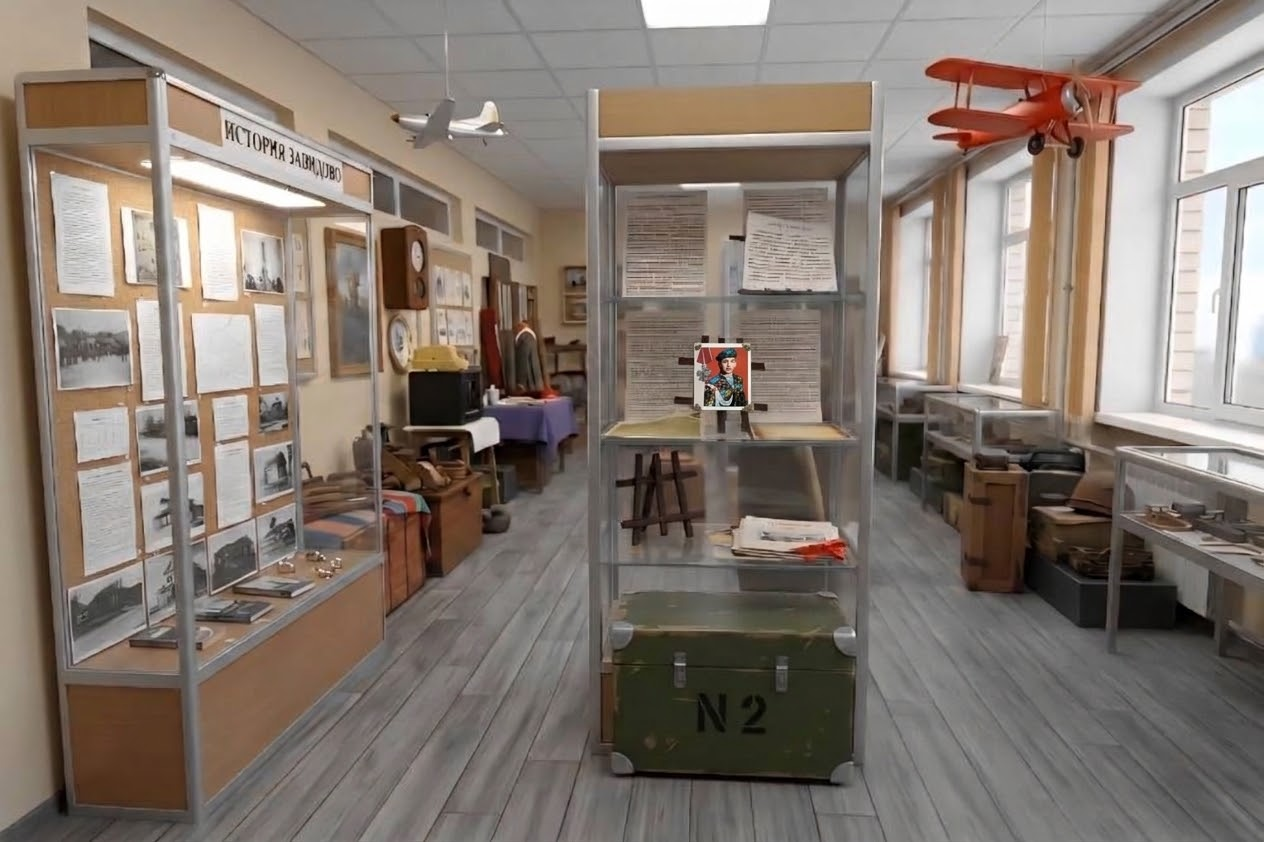
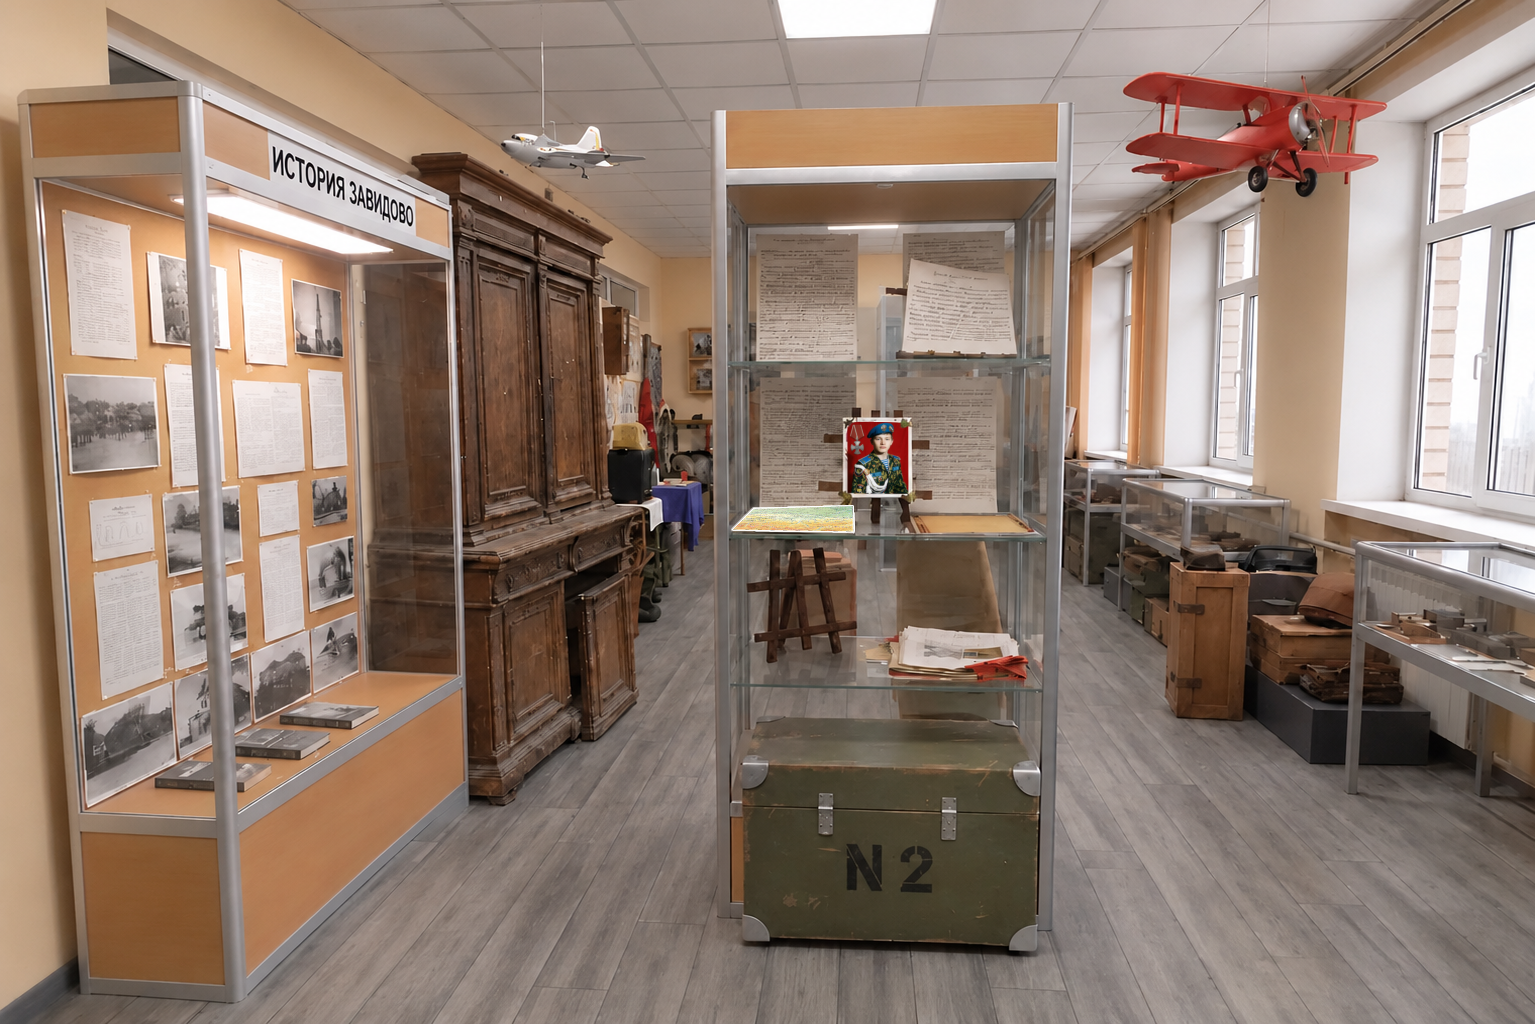
Hide cabinet marker label on hover

diff --git a/script.js b/script.js
@@ -592,16 +592,16 @@ const LONGITUDINAL_OBJECTS = [
     title: "Стенд о Чечне, Афганистане и Великой Отечественной войне",
     number: "1",
     color: "red",
-    left: "58%",
-    top: "14%",
+    left: "57.8%",
+    top: "14.6%",
   },
   {
     id: "Stend_about_Zavidovo_history(2)",
     title: "Стенд «История Завидово»",
     number: "2",
     color: "red",
-    left: "23%",
-    top: "80%",
+    left: "24%",
+    top: "79.4%",
     labelPosition: "above",
   },
   {
@@ -609,8 +609,8 @@ const LONGITUDINAL_OBJECTS = [
     title: "Немецкий сундук",
     number: "3",
     color: "blue",
-    left: "58%",
-    top: "89%",
+    left: "57.2%",
+    top: "77.2%",
     type: "exhibit",
     labelPosition: "above",
   },
@@ -619,9 +619,18 @@ const LONGITUDINAL_OBJECTS = [
     title: "Военные трофеи",
     number: "4",
     color: "blue",
-    left: "81.2%",
-    top: "53.3%",
+    left: "83.2%",
+    top: "61.2%",
     type: "exhibit",
+  },
+  {
+    title: "Шкаф",
+    number: "5",
+    color: "blue",
+    left: "36.4%",
+    top: "53.6%",
+    disabled: true,
+    hideLabel: true,
   },
 ];
 
@@ -1018,6 +1027,8 @@ function encodePath(dir, file, preserveImageFormat = false) {
     /^vitrina_pamyati\(13\)(?:_hits_for_markers|_\(GX\)(?:_full_view_photo)?)?\.(?:jpe?g|webp)$/i.test(imageFile);
   const isUpdatedEntranceMap = dir === IMAGE_DIR &&
     /^interior_of_the_museum_entrance(?:_hits_for_markers)?\.(?:png|jpe?g|webp)$/i.test(imageFile);
+  const isUpdatedLongitudinalMap = dir === IMAGE_DIR &&
+    file === "facing_two_longitudinal_(interactive).png";
   const isUpdatedMotovilinAudio = dir === AUDIO_DIR &&
     file === "audio_for_museum_entrance_left_soviet_soldier_photo_info_about_image.mp3";
   const isUpdatedVaraksinoAudio = dir === AUDIO_DIR &&
@@ -1029,9 +1040,10 @@ function encodePath(dir, file, preserveImageFormat = false) {
   return isUpdatedMemoryDisplay
     ? `${path}?v=20261108-1`
     : isUpdatedEntranceMap ? `${path}?v=20261108-2`
-      : isUpdatedMotovilinAudio ? `${path}?v=20261118-1`
-        : isUpdatedVaraksinoAudio || isUpdatedVaraksinoText ? `${path}?v=20261115-2`
-          : isUpdatedZavidovoXXIV ? `${path}?v=20261121-xxiv-3` : path;
+      : isUpdatedLongitudinalMap ? `${path}?v=20261127-longitudinal-1`
+        : isUpdatedMotovilinAudio ? `${path}?v=20261118-1`
+          : isUpdatedVaraksinoAudio || isUpdatedVaraksinoText ? `${path}?v=20261115-2`
+            : isUpdatedZavidovoXXIV ? `${path}?v=20261121-xxiv-3` : path;
 }
 
 function createPanZoom(viewport, world) {
@@ -1987,18 +1999,22 @@ function renderLongitudinalMarkers() {
     pin.dataset.labelPosition = item.labelPosition || "below";
     pin.setAttribute("aria-label", item.title);
     pin.setAttribute("aria-disabled", String(Boolean(item.disabled)));
-    pin.title = item.title;
+    pin.title = item.hideLabel ? "" : item.title;
     const glow = document.createElement("span");
     glow.className = "pin-glow";
     const dot = document.createElement("span");
     dot.className = "pin-dot";
-    const label = document.createElement("span");
-    label.className = "pin-label";
-    const title = document.createElement("span");
-    title.className = "pin-label-text";
-    title.textContent = item.title;
-    label.appendChild(title);
-    pin.append(glow, dot, label);
+    pin.append(glow, dot);
+
+    if (!item.hideLabel) {
+      const label = document.createElement("span");
+      label.className = "pin-label";
+      const title = document.createElement("span");
+      title.className = "pin-label-text";
+      title.textContent = item.title;
+      label.appendChild(title);
+      pin.appendChild(label);
+    }
 
     if (!item.disabled) {
       pin.addEventListener("click", (event) => {

diff --git a/index.html b/index.html
@@ -40,7 +40,7 @@
   <link rel="preconnect" href="https://fonts.gstatic.com" crossorigin />
   <link rel="preload" as="image" href="images/interior_of_the_museum_entrance.png?v=20261108-2" fetchpriority="high" />
   <link href="https://fonts.googleapis.com/css2?family=Cormorant+Garamond:ital,wght@0,500;0,600;0,700;1,500&family=Manrope:wght@400;500;600;700&display=swap" rel="stylesheet" />
-  <link rel="stylesheet" href="style.css?v=20261126-truzheniki-tyla-2" />
+  <link rel="stylesheet" href="style.css?v=20261127-longitudinal-1" />
 </head>
 <body>
   <div class="page-glow" aria-hidden="true"></div>
@@ -676,7 +676,7 @@
   </div>
 
   <script src="guestbook-config.js?v=20261115-1"></script>
-  <script src="script.js?v=20261126-truzheniki-tyla-3"></script>
+  <script src="script.js?v=20261127-longitudinal-1"></script>
   <script type="module" src="guestbook.js?v=20261123-moderator-layout-1"></script>
 </body>
 </html>

diff --git a/style.css b/style.css
@@ -2738,6 +2738,8 @@ body.modal-open {
   place-items: center;
   color: #071428;
   font: 800 0.8rem/1 "Manrope", "Segoe UI", sans-serif;
+  width: 22px;
+  height: 22px;
 }
 
 .longitudinal-pin.is-disabled {
@@ -3683,8 +3685,8 @@ body.modal-open {
   }
 
   .longitudinal-pin .pin-dot {
-    width: 17px;
-    height: 17px;
+    width: 20px;
+    height: 20px;
   }
 
   .tour-continue {
